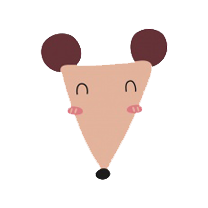
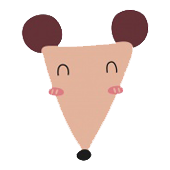
images changed, used big images, some development for gameRoom page

Changed region(s): [[0.1176, 0.0588, 0.8824, 0.9706]]

diff --git a/client/index.html b/client/index.html
@@ -24,19 +24,19 @@
 	  <div id="slideshow">
 
 	    <ul class="slides">
-	        <li><img id="small_cat.png" src="/client/img/playerIcons/big_cat.png" width="208" height="208" /></li>
-	        <li><img id="small_frog.png" src="/client/img/playerIcons/big_frog.png" width="208" height="208" /></li>
-	        <li><img id="small_hippo.png" src="/client/img/playerIcons/big_hippo.png" width="208" height="208" /></li>
-	        <li><img id="small_lion.png" src="/client/img/playerIcons/big_lion.png" width="208" height="208" /></li>
-	        <li><img id="small_mouse.png" src="/client/img/playerIcons/big_mouse.png" width="208" height="208" /></li>
-	        <li><img id="small_panda.png" src="/client/img/playerIcons/big_panda.png" width="208" height="208" /></li>
-	        <li><img id="small_panther.png" src="/client/img/playerIcons/big_panther.png" width="208" height="208" /></li>
-	        <li><img id="small_rabbit.png" src="/client/img/playerIcons/big_rabbit.png" width="208" height="208" /></li>
-	        <li><img id="small_zebra.png" src="/client/img/playerIcons/big_zebra.png" width="208" height="208" /></li>
-	        <li><img id="small_turtle1.png" src="/client/img/playerIcons/big_turtle1.png" width="208" height="208" /></li>
-	        <li><img id="small_turtle2.png" src="/client/img/playerIcons/big_turtle2.png" width="208" height="208" /></li>
-	        <li><img id="small_turtle3.png" src="/client/img/playerIcons/big_turtle3.png" width="208" height="208" /></li>
-	        <li><img id="small_turtle4.png" src="/client/img/playerIcons/big_turtle4.png" width="208" height="208" /></li>
+	        <li><img id="big_cat.png" src="/client/img/playerIcons/big_cat.png" width="170" height="170" /></li>
+	        <li><img id="big_frog.png" src="/client/img/playerIcons/big_frog.png" width="170" height="170" /></li>
+	        <li><img id="big_hippo.png" src="/client/img/playerIcons/big_hippo.png" width="170" height="170" /></li>
+	        <li><img id="big_lion.png" src="/client/img/playerIcons/big_lion.png" width="170" height="170" /></li>
+	        <li><img id="big_mouse.png" src="/client/img/playerIcons/big_mouse.png" width="170" height="170" /></li>
+	        <li><img id="big_panda.png" src="/client/img/playerIcons/big_panda.png" width="170" height="170" /></li>
+	        <li><img id="big_panther.png" src="/client/img/playerIcons/big_panther.png" width="170" height="170" /></li>
+	        <li><img id="big_rabbit.png" src="/client/img/playerIcons/big_rabbit.png" width="170" height="170" /></li>
+	        <li><img id="big_zebra.png" src="/client/img/playerIcons/big_zebra.png" width="170" height="170" /></li>
+	        <li><img id="big_turtle1.png" src="/client/img/playerIcons/big_turtle1.png" width="170" height="170" /></li>
+	        <li><img id="big_turtle2.png" src="/client/img/playerIcons/big_turtle2.png" width="170" height="170" /></li>
+	        <li><img id="big_turtle3.png" src="/client/img/playerIcons/big_turtle3.png" width="170" height="170" /></li>
+	        <li><img id="big_turtle4.png" src="/client/img/playerIcons/big_turtle4.png" width="170" height="170" /></li>
 	    </ul>
 
 	    <span class="arrow previous"></span>

diff --git a/client/js/controller/gameRoomController.js b/client/js/controller/gameRoomController.js
@@ -28,12 +28,19 @@ $(window).on('load', function(){
 	socket.emit('joinAndRequestGameInfo', {gameId: gameId, userId: userId});
 
 	socket.on('responseGameInfo', function(game) {
+		var game = new GAME(game); //Grrr to use game object functions
+
 		lblGameName.innerHTML = "Game Name: " + game.gameName;
 		
 		if (userId == undefined) { //TODO: null mı, undefined mı ??? Check
 			userId = game.creatorId;
 		}
+		/*document.getElementById('currentRoom').innerHTML = game.gameName;*/ //TODO: sonra aç
+		socket.emit('joinRoom', game.gameName);
 
+		setPageProps(game.getPlayerName(userId), game.gameName);
+
+		/*document.getElementById('currentRoom').innerHTML = 'general_room';*/
 		console.log(game.gameName);
 		console.log(game.creatorId);
 		console.log(game.creatorName);
@@ -45,8 +52,7 @@ $(window).on('load', function(){
 function refreshUserList(game) {
 	var table = document.getElementById("userList");
 	var rowCount = table.rows.length;
-	for(var i = rowCount - 1; i > 0; i--)
-	{   
+	for(var i = rowCount - 1; i > 0; i--) {   
 	   table.deleteRow(i);
 	}
 
@@ -55,14 +61,31 @@ function refreshUserList(game) {
 	for (var i in uList) {
 		var user = uList[i];
 
+		var lampImg = document.createElement('img');
+		lampImg.src = '/client/img/small_notReadyLamp.png';
+		lampImg.className = "UserTableImg";
+
+		var icon = document.createElement('img');
+		icon.src = '/client/img/playerIcons/' + user.userIcon;
+		icon.className = "UserTableImg";
+
 	    var row = table.insertRow(table.length);
 	    row.className = 'clickable';
 	    var id = row.insertCell(0);
-	    var username = row.insertCell(1);
+	    var lamp = row.insertCell(1);
+	    var userIcon = row.insertCell(2);
+	    var username = row.insertCell(3);
 	    /*var roomName = row.insertCell(2);
 	    var playerCount = row.insertCell(3);*/
 	    id.innerHTML = user.id;
 	    id.className = "hideThis";
+		
+		lamp.appendChild(lampImg);
+		lamp.className = "UserTableImgCell";
+
+		userIcon.appendChild(icon);
+	    userIcon.className = "UserTableImgCell";
+
 	    username.innerHTML = user.username;
 	    username.className = "UserTableCell";
 	    /*roomName.innerHTML = user.gameName;
@@ -74,16 +97,20 @@ function refreshUserList(game) {
 	console.log(game.playersInGame);
 }
 
-socket.on('responseUsersInGame', function(list){
+/*socket.on('responseUsersInGame', function(list){
 	//TODO: list in userList
-});
+});*/
 
 function setReady() {
 	if (!readyBoolean) {
 		readyButton.src = '/client/img/readyLamp.png';
-		readyBoolean = true;
+		readyBoolean = true; 
 	} else {
 		readyButton.src = '/client/img/notReadyLamp.png';
 		readyBoolean = false;
 	}
+
+	//TODO: send server readyBoolean and userId
 }
+
+//TODO: socket.on  from server with readyBoolean and userId to update user list

diff --git a/app.js b/app.js
@@ -61,7 +61,7 @@ io.sockets.on('connection', function(socket){
 
 		socket._id = id;
 		socket.username = user.username;
-		socket._userIcon = user.userIcon;
+		socket.userIcon = user.userIcon;
 		socket._currentRoomName = 'general_room';
 
 		SOCKET_LIST[id] = socket;
@@ -75,7 +75,7 @@ io.sockets.on('connection', function(socket){
 	socket.on('requestUserInfo', function(id) {
 		var socketInfo = SOCKET_LIST[id];
 
-		var sendBackUserInfo = {userId: id, username: socketInfo.username, userIcon: socketInfo._userIcon, currentRoom: socketInfo._currentRoomName};
+		var sendBackUserInfo = {userId: id, username: socketInfo.username, userIcon: socketInfo.userIcon, currentRoom: socketInfo._currentRoomName};
 		socket.join(socketInfo._currentRoomName);
 		socket.emit('responseUserInfo', sendBackUserInfo);
 	});
@@ -92,7 +92,7 @@ io.sockets.on('connection', function(socket){
 	socket.on('createAGameRoom', function(gameObject) {
 		var id = Math.random();
 		gameObject.id = id;
-		//TODO: create GAME object here to use functions
+		
 		var game = new GAME(gameObject);
 		GAME_LIST[id] = game;
 
@@ -120,13 +120,15 @@ io.sockets.on('connection', function(socket){
 		}
 
 		var user = SOCKET_LIST[userId];
-		console.log
-		var userObj = {id: userId, username: user.username}; //TODO: refactor user object - player object
+
+		var userObj = {id: userId, username: user.username, userIcon: user.userIcon}; //TODO: refactor user object veya player object
 
 		game.someoneJoined(userObj);
 		GAME_LIST[game.id] = game;
 
-		io.sockets.emit('responseGameInfo', GAME_LIST[game.id]);
+		/*console.log(game);*/
+
+		io.sockets.emit('responseGameInfo', game);
 	});
 
 	/*socket.on('requestUsersInGame', function(game) {
@@ -251,7 +253,7 @@ function refreshGeneralRoomUserList() {
 	var userList = {};
 	for (var i in SOCKET_LIST) {
 		var userId = SOCKET_LIST[i]._id;
-		var user = {userId: userId, userIcon: SOCKET_LIST[i]._userIcon, username: SOCKET_LIST[i].username, currentRoomName: SOCKET_LIST[i]._currentRoomName};
+		var user = {userId: userId, userIcon: SOCKET_LIST[i].userIcon, username: SOCKET_LIST[i].username, currentRoomName: SOCKET_LIST[i]._currentRoomName};
 		userList[userId] = user;
 	}
 

diff --git a/client/js/controller/joinCreateListRoomController.js b/client/js/controller/joinCreateListRoomController.js
@@ -19,9 +19,9 @@ $(window).on('load', function(){
 	socket.on('responseUserInfo', function(userInfo) {
 		userObj = userInfo;
 		username = userInfo.username;
-		document.getElementById('userIcon').src = '/client/img/playerIcons/' + getGoodSizeOfIcon(userInfo.userIcon, 'medium');
-		document.getElementById('username').innerHTML = userInfo.username;
-		document.getElementById('currentRoom').innerHTML = userInfo.currentRoom;
+		document.getElementById('userIcon').src = '/client/img/playerIcons/' + userInfo.userIcon;
+
+		setPageProps(userInfo.username, userInfo.currentRoom);
 	});
 });
 
@@ -112,10 +112,10 @@ function createGame() {
 	gameName.val('');
  	gameNameModal.style.display = "none";
 
- 	var gameData = {gameName: gName, creatorId: userId, creatorName: username};
+ 	var gameData = {gameName: gName, creatorId: userId, creatorName: username, playersInGame: {}};
  	var gameObject = new GAME(gameData);
 
- 	console.log(gameObject);
+ 	/*console.log(gameObject);*/
  	
 	socket.emit('createAGameRoom', gameObject);
 
@@ -124,21 +124,31 @@ function createGame() {
 	});
 }
 
+var selectedGameId = null;
+
 $(document).ready(function() {
 	$('#gameList').on('click', 'tr.clickable', function() {
 	    $(this).addClass('CJLTableRowSelected').siblings().removeClass('CJLTableRowSelected');
+	    selectedGameId = $(this).find('td:first').html();
 	});
 
 	$('#gameList').on('dblclick', 'tr.clickable', function() { 
-   		var gameId = $(this).find('td:first').html();
-   		joinGame(gameId);
+   		var selectedGameId = $(this).find('td:first').html();
+   		joinGame(selectedGameId);
 	});
 });
 
 function joinGame(gameId) {
-	window.open('gameRoom?id=' + gameId+ '&uId=' + userId, '_self');
+	window.open('gameRoom?id=' + gameId + '&uId=' + userId, '_self');
 }
 
+function joinGameButtonEvent() {
+	//TODO: check game still exist in list - can joinable ?
+	if (selectedGameId != null) {
+		window.open('gameRoom?id=' + selectedGameId + '&uId=' + userId, '_self');
+	}
+	
+}
 
 //TODO: sil bunu - cöp
 function geriGit() {

diff --git a/client/css/gameRoom.css b/client/css/gameRoom.css
@@ -103,12 +103,47 @@
 }
 
 .UserTable {
-    border: 1px solid black;
+    /*border: 1px solid black;*/
     width: 100%;
 }
 
 .UserTableCell {
-	border: 1px solid black;
-    padding: 4px;
+	/*border: 1px solid black;
+    padding: 4px;*/
+    padding: 1px;
     font-size: 110%;
+}
+
+.UserTableImgCell {
+	/*border: 1px solid black;
+    padding: 4px;*/
+    padding: 1px 1px 0px 1px;
+    width: 38px;
+}
+
+.UserTableImg {
+	width: 35px;
+	height: 35px;
+}
+
+.ChatMessageTextArea {
+	background-color: #f7fcf8;
+	margin: 4px;
+	width: 98%;
+	height: 72%;
+	overflow-y: scroll;
+	overflow-x: hidden;
+	resize: none;
+	word-wrap: break-word;
+}
+
+.ChatMessageInputArea {
+	background-color: #f7fcf8;
+	margin: 4px;
+	width: 98%;
+	height: 20%;
+	overflow-y: scroll;
+	overflow-x: hidden;
+	resize: none;
+	word-wrap: break-word;
 }

diff --git a/client/js/model/gameObject.js b/client/js/model/gameObject.js
@@ -8,10 +8,16 @@ GAME = function(param) {
 	self.bombPower = param.bombPower;
 	self.bombCount = param.bombCount;
 	self.allDestructible = param.allDestructible;
-	self.playerCount = 0; //Gerek yok alma kalsın
-	self.playersInGame = {};
+
+	if (param.playersInGame != undefined) {
+		self.playersInGame = param.playersInGame;
+	}
+	
+	/*self.playerCount = self.playersInGame.size //sonra*/
 
 	self.someoneJoined = function(player) {
+		console.log(self.playersInGame);
+
 		self.playerCount++;
 		self.playersInGame[player.id] = player;
 	}
@@ -20,6 +26,10 @@ GAME = function(param) {
 		self.playerCount--;
 		var playerId = player.id;
 		delete self.playersInGame.playerId;
+	}
+
+	self.getPlayerName = function(playerId) {
+		return self.playersInGame[playerId].username;
 	}
 
 	return self;

diff --git a/client/view/gameRoom.html b/client/view/gameRoom.html
@@ -10,9 +10,12 @@
 	<script src="./client/js/util/util.js"></script>
 	<script src="./client/js/model/gameObject.js"></script>
 	<script src="./client/js/controller/gameRoomController.js"></script>
+	<script src="./client/js/controller/chatController.js"></script>
 
 </head>
 <body class="Background">
+	<label id="currentRoom" hidden></label>
+	<label id="username" hidden></label>
 	<div class="AllContainer">
 		<label id="lblGameName" class="Label"> Game Name: </label>
 		<div class="TopContainer">
@@ -37,7 +40,8 @@
 		</div>
 
 		<div class="BottomContainer">
-		
+			<div id="chatMessagesArea" class="ChatMessageTextArea"></div>
+			<textarea id="chatInput" class="ChatMessageInputArea"></textarea>
 		</div>
 		<button onclick="" class="ExitButton"> EXIT </button>
 

diff --git a/client/js/util/util.js b/client/js/util/util.js
@@ -33,7 +33,10 @@ Object.size = function(obj) {
     document.body.removeChild(form);
 }*/
 
-
+function setPageProps(username, roomname) {
+    document.getElementById('username').innerHTML = username;
+    document.getElementById('currentRoom').innerHTML = roomname;
+}
 
 //Resimde sadece tek alttan cizgi olmalı
 function getGoodSizeOfIcon(str, size) {

diff --git a/client/view/joinCreateListRoom.html b/client/view/joinCreateListRoom.html
@@ -31,7 +31,7 @@
 
 		<div class="CJLTopButtonsContainer">
 			<button onclick="openGameNameModal()" class="CJLTopButton">Create Game</button>
-			<button onclick="" class="CJLTopButton">Join Game</button>	
+			<button onclick="joinGameButtonEvent()" class="CJLTopButton">Join Game</button>	
 		</div>
 		
 		<label class="CJLLabel"> Game List </label>

diff --git a/client/css/imageSlider.css b/client/css/imageSlider.css
@@ -12,12 +12,13 @@
 }
 
 #slideshow ul{
-    height:320px;
-    left:25px;
+    height:170px;
+    top: 15px;
+    left:45px;
     list-style:none outside none;
     overflow:hidden;
     position:absolute;
-    width:620px;
+    width:170px;
 }
 
 #slideshow li{

diff --git a/client/css/general.css b/client/css/general.css
@@ -49,7 +49,7 @@
 }
 
 .CJLUsernameLabel {
-    margin: 10px 10px 1px 10px; 
+    margin: 13px 10px 1px 10px; 
     padding-left: 0px; 
     float: left;
     font-weight: bold;
